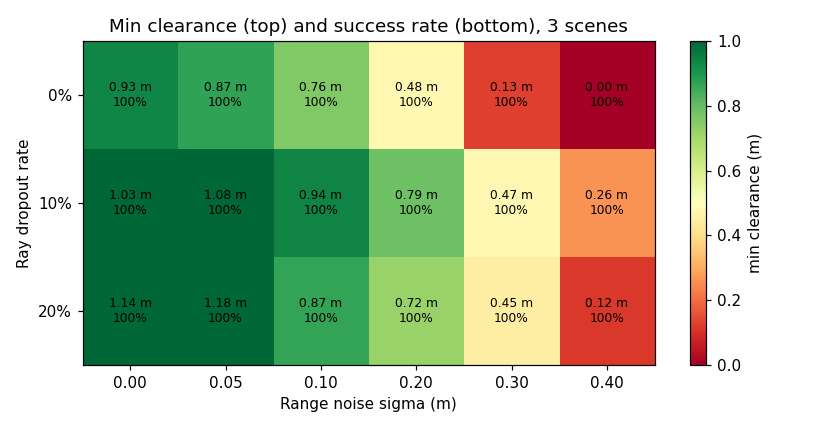
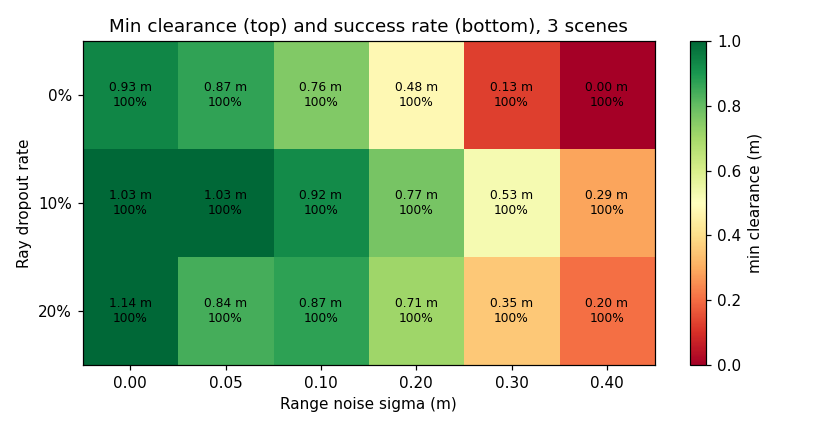
fix(ground): 修正传感器加噪顺序，丢束值不再被噪声污染
评审 asdfghjkl384 指出（CHANGES_REQUESTED）：原实现先把丢束项设为 lidar_range_m，
再对所有束叠加高斯噪声，导致丢束值从量程上限漂走，甚至读成更近的障碍——
「随机无回波」的语义被破坏，鲁棒性指标也就不可信了。

修正：
- 先判定丢束、只对有效回波加噪、最后把丢束项写回量程上限
- 新增两条断言用例：sigma=0.20 且 dropout=1.0 时全部精确等于量程；
  dropout=0.5 时既有饱和项（恰好等于量程）也有带噪的有效回波
- 重跑 18 个组合，更新文档表格与热力图

重跑结果（成功率达到 100% 不变，最离障变化）：
- 丢束 0% 一列不变：0.934 / 0.871 / 0.757 / 0.479 / 0.128 / 0.000
- 丢束 20%、噪声 0.05 从 1.183 降到 0.843（原值把丢束噪声算进去了）
- 噪声 0.40 丢束 0% 仍为 0.000（擦碰），结论不变：成功率掩盖了安全裕度下降

Changed region(s): [[0.5528, 0.5758, 0.8292, 0.8485], [0.215, 0.5758, 0.3378, 0.8485], [0.6143, 0.4242, 0.645, 0.4848]]

diff --git a/src/ground/mujoco_car_nn_avoidance/mujoco_car_nn_avoidance/sensors.py b/src/ground/mujoco_car_nn_avoidance/mujoco_car_nn_avoidance/sensors.py
@@ -48,6 +48,10 @@ def _apply_sensor_noise(env, ranges):
 
     cfg.lidar_noise_sigma_m / cfg.lidar_dropout_prob 都为 0 时原样返回，
     不影响默认精度；随机数按 episode 固定种子，同一配置可复现。
+
+    顺序很关键：**先判丢束、只对有效回波加噪、最后把丢束项写回量程上限**。
+    若先写量程再加噪，丢束值会从 lidar_range_m 漂走（甚至读成更近的障碍），
+    「随机无回波」的语义就没了。
     """
     cfg = env.cfg
     sigma = float(getattr(cfg, "lidar_noise_sigma_m", 0.0))
@@ -59,12 +63,16 @@ def _apply_sensor_noise(env, ranges):
         rng = np.random.default_rng(int(getattr(cfg, "sensor_seed", 0)))
         env._sensor_rng = rng
     n = ranges.shape[0]
-    if dropout > 0.0:
-        ranges = ranges.copy()
-        ranges[rng.random(n) < dropout] = cfg.lidar_range_m
+    limit = float(cfg.lidar_range_m)
+    dropped = rng.random(n) < dropout if dropout > 0.0 else np.zeros(n, dtype=bool)
+    out = np.array(ranges, dtype=np.float32, copy=True)
     if sigma > 0.0:
-        ranges = ranges + rng.normal(0.0, sigma, n).astype(np.float32)
-    return np.clip(ranges, 0.0, cfg.lidar_range_m).astype(np.float32)
+        noise = rng.normal(0.0, sigma, n).astype(np.float32)
+        valid = ~dropped
+        out[valid] = np.clip(out[valid] + noise[valid], 0.0, limit)
+    if dropout > 0.0:
+        out[dropped] = limit
+    return out.astype(np.float32)
 
 
 def normalize_rays(rays, range_m):

diff --git a/src/ground/mujoco_car_nn_avoidance/test/test_sensor_noise.py b/src/ground/mujoco_car_nn_avoidance/test/test_sensor_noise.py
@@ -49,6 +49,24 @@ class SensorNoiseTests(unittest.TestCase):
         second = apply_noise(FakeEnv(sigma=0.05, dropout=0.1), ranges)
         np.testing.assert_allclose(first, second)
 
+    def test_dropped_beams_stay_exactly_at_range_when_noise_enabled(self):
+        """丢束语义：即使同时开噪声，丢束值也必须精确等于量程（评审指出过）"""
+        apply_noise = self._noise()
+        ranges = np.full(25, 3.0, dtype=np.float32)
+        out = apply_noise(FakeEnv(sigma=0.20, dropout=1.0), ranges)
+        np.testing.assert_array_equal(out, np.float32(6.0))
+
+    def test_mixed_dropout_keeps_dropped_beams_saturated(self):
+        apply_noise = self._noise()
+        ranges = np.full(200, 2.0, dtype=np.float32)
+        out = apply_noise(FakeEnv(sigma=0.20, dropout=0.5), ranges)
+        at_limit = int(np.sum(out == np.float32(6.0)))
+        self.assertGreater(at_limit, 0, "应至少有一束被置为量程")
+        self.assertLess(at_limit, out.shape[0], "不应全部丢束")
+        # 有效回波带噪声，与量程区分开；全部仍落在 [0, 量程]
+        self.assertTrue(np.all(out <= 6.0) and np.all(out >= 0.0))
+        self.assertGreater(float(np.std(out[out < np.float32(6.0)])), 0.0)
+
     def test_env_reset_restarts_noise_sequence(self):
         apply_noise = self._noise()
         env = FakeEnv(sigma=0.05)

diff --git a/docs/ground/mujoco_car_nn_avoidance.md b/docs/ground/mujoco_car_nn_avoidance.md
@@ -349,14 +349,22 @@ ros2 topic echo /cmd_vel
 python3 main.py --robustness     # 结果写 results/robustness.csv 与 robustness.png
 ```
 
-| 测距噪声 σ (m) | 0.00 | 0.05 | 0.10 | 0.20 | 0.30 | 0.40 |
-|---|---:|---:|---:|---:|---:|---:|
-| 最小离障 (m)，丢束 0% | 0.934 | 0.871 | 0.757 | 0.479 | 0.128 | **0.000** |
-| 到达成功率 | 100% | 100% | 100% | 100% | 100% | 100% |
+| 测距噪声 σ (m) | 丢束 0% | 丢束 10% | 丢束 20% |
+|---|---:|---:|---:|
+| 0.00 | 0.934 | 1.026 | 1.135 |
+| 0.05 | 0.871 | 1.031 | 0.843 |
+| 0.10 | 0.757 | 0.922 | 0.874 |
+| 0.20 | 0.479 | 0.771 | 0.710 |
+| 0.30 | 0.128 | 0.526 | 0.353 |
+| 0.40 | **0.000** | 0.289 | 0.204 |
 
-**关键结论：通过率全是 100%，但安全裕度被悄悄吃掉了。** 噪声到 0.30 m 时最小离障只剩 0.13 m，0.40 m 时降到 0.000 m——已经擦到障碍，而「是否在 30 s 内到达目标」这个指标完全看不出来。所以只看 success 会高估策略的鲁棒性，验收应同时看 `min_clearance_m`；这也是本模块把最小离障单独列进指标表的原因。
+表中为最小离障 (m)；18 个组合的到达成功率**全部是 100%**。
 
-丢束率的 3 档（0/10%/20%）在噪声较低时没有单调影响（同一 σ 下 20% 丢束的离障甚至略大），样本只有 3 个场景，不宜过度解读；丢束更像是让策略更早绕行，而不是直接失效。
+**关键结论：通过率全是 100%，但安全裕度被悄悄吃掉了。** 噪声到 0.30 m 时最小离障只剩 0.13 m，0.40 m 且不丢束时降到 0.000 m——已经擦到障碍，而「是否在 30 s 内到达目标」这个指标完全看不出来。所以只看 success 会高估策略的鲁棒性，验收应同时看 `min_clearance_m`；这也是本模块把最小离障单独列进指标表的原因。
+
+丢束的 3 档不是单调关系：低噪声时 20% 丢束的离障反而略大（0.934 → 1.135），高噪声时丢束又掩盖了危险（σ=0.40 时 0% 丢束 0.000、20% 丢束 0.204）。更像是丢束让策略更早转开而不是直接失效，样本只有 3 个场景，不宜过度解读。
+
+> 口径说明：**先判丢束、只对有效回波加噪、最后把丢束项写回量程上限**，保证「随机无回波」的语义不被噪声破坏。`test_sensor_noise.py` 有一条用例专门断言：即使同时开 σ=0.20 噪声，丢束值也必须精确等于量程。
 
 ![传感器噪声下的最小离障与成功率](img/ground/mujoco_car_nn_avoidance_robustness.png)
 
